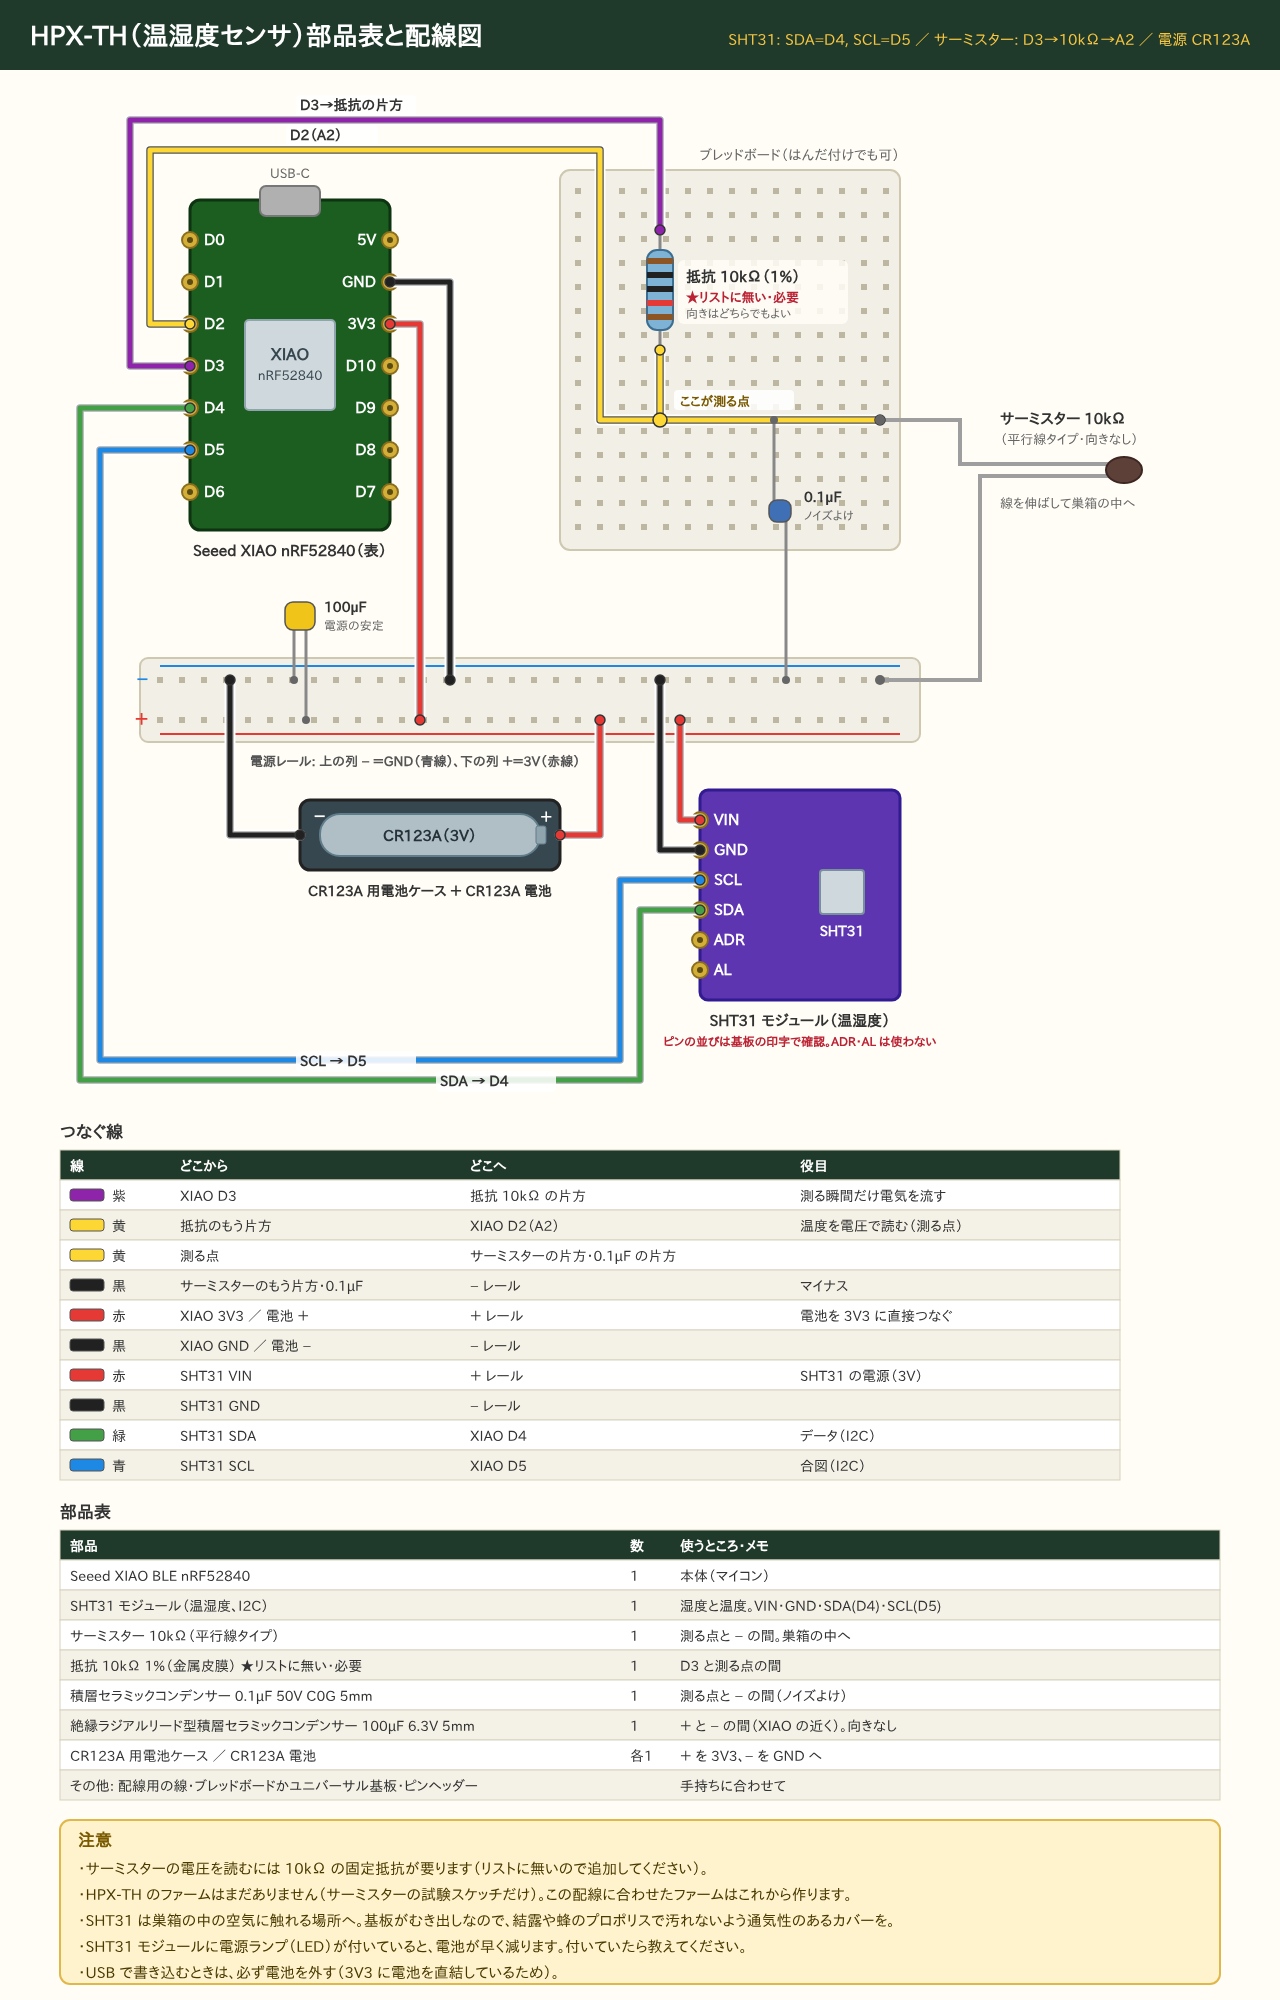
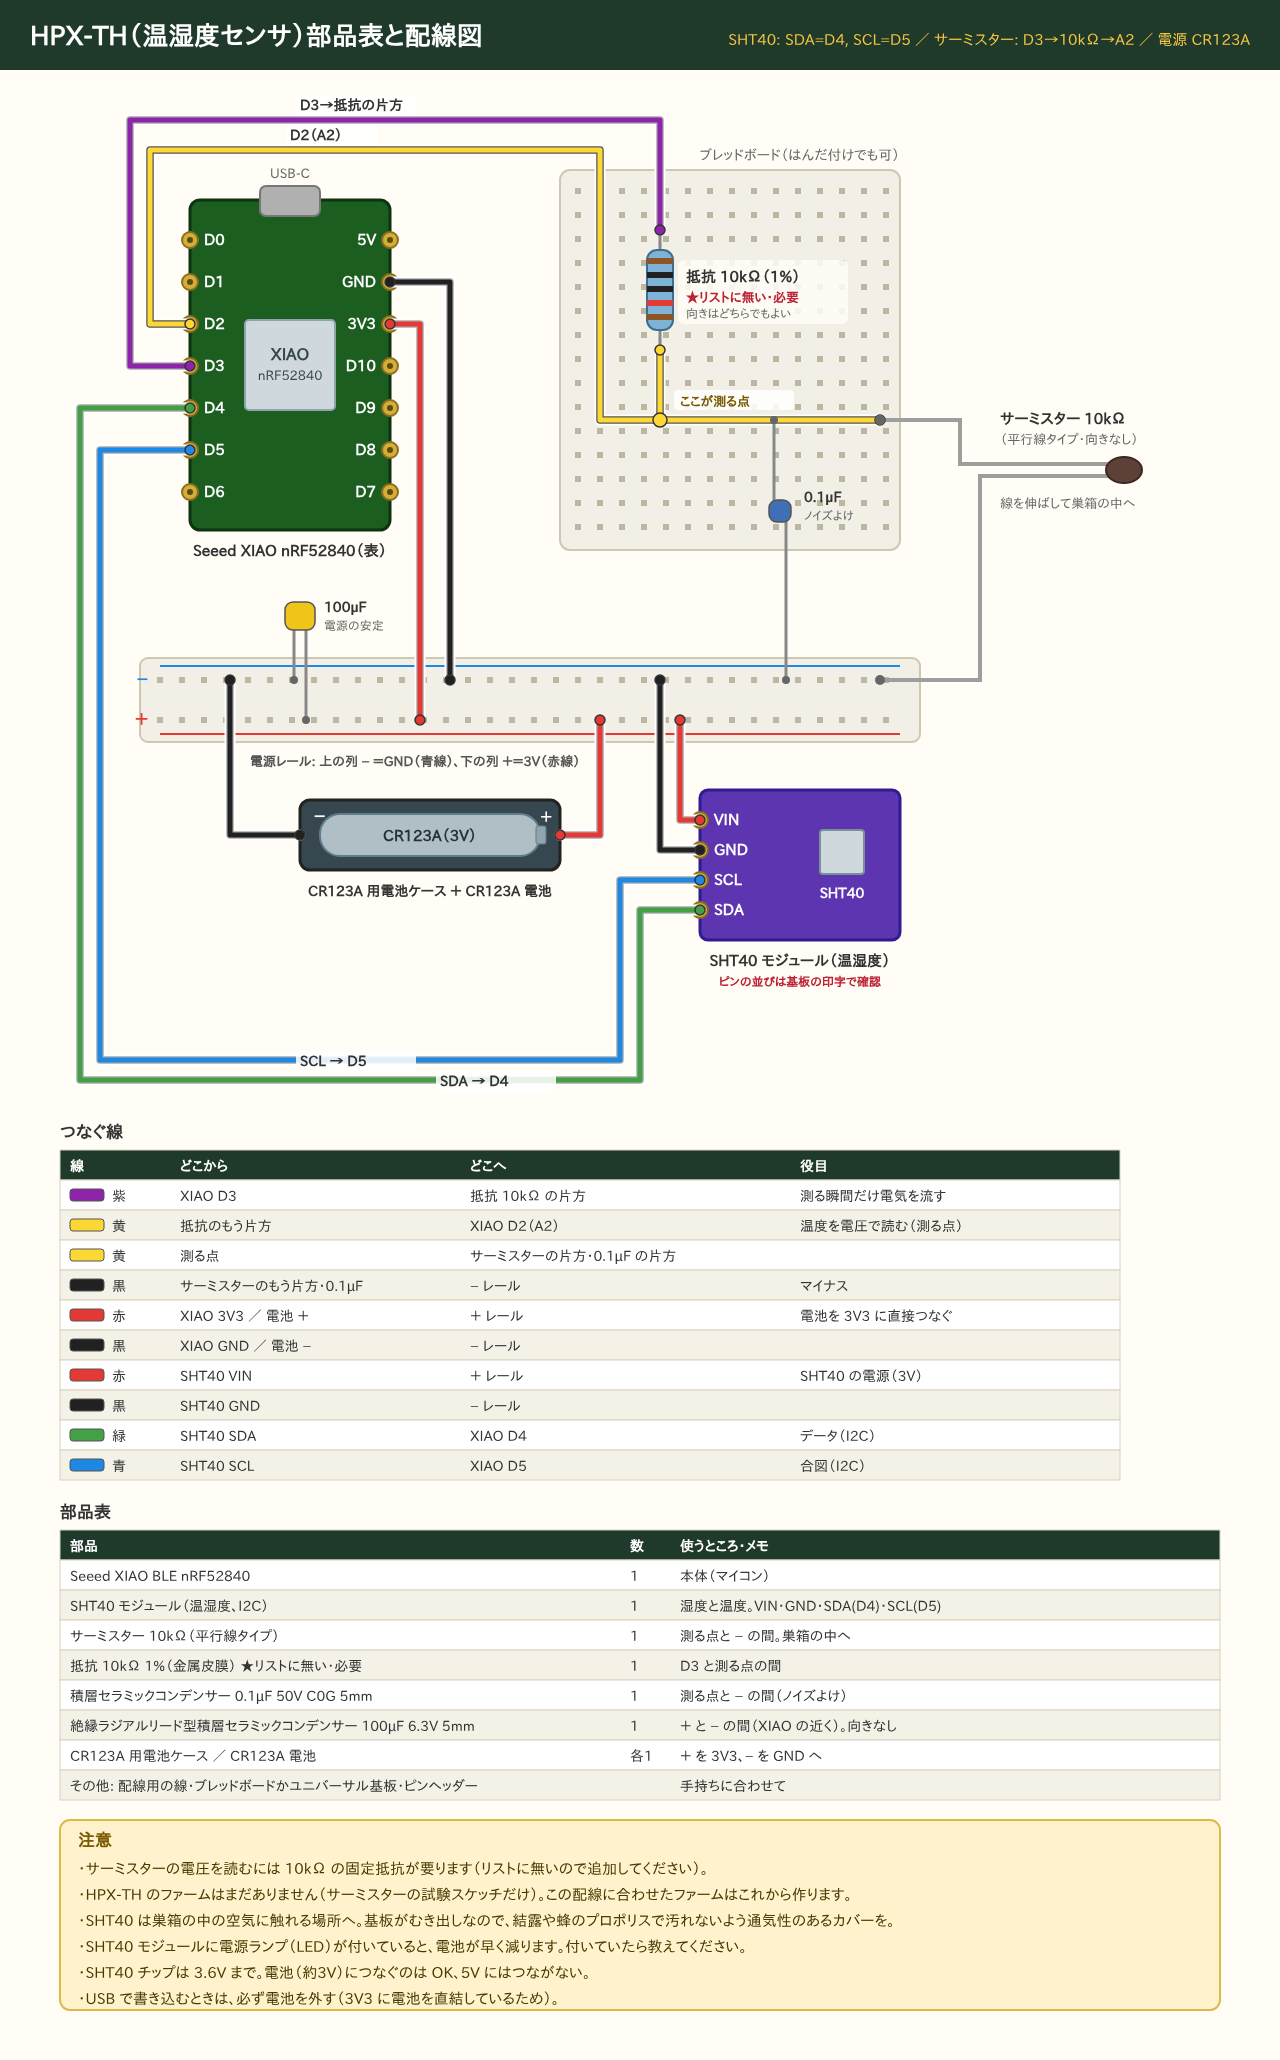
HPX-TH の温湿度センサを SHT40 に変更
Claude-Session: https://claude.ai/code/session_01LCC9B49tx6iTQWsNLLe4HY

diff --git a/hardware/wiring/gen_wiring.py b/hardware/wiring/gen_wiring.py
@@ -208,8 +208,8 @@ notes(s, 60, y + 20, [
 s.save("HPX-W_wiring.svg")
 
 # ------------------------------------------------------------------ HPX-TH
-s = S(1280, 2000)
-title(s, "HPX-TH（温湿度センサ）部品表と配線図", "SHT31: SDA=D4, SCL=D5 ／ サーミスター: D3→10kΩ→A2 ／ 電源 CR123A")
+s = S(1280, 2060)
+title(s, "HPX-TH（温湿度センサ）部品表と配線図", "SHT40: SDA=D4, SCL=D5 ／ サーミスター: D3→10kΩ→A2 ／ 電源 CR123A")
 p = xiao(s, 190, 200)
 bx, by = 560, 170
 s.rect(bx, by, 340, 380, "#f1efe6", "#cfc8b0", 10, 2)
@@ -252,16 +252,16 @@ cap(s, 300, 610, YM, YP, "100µF", "電源の安定", big=True, right=True)
 bp, bm = cr123a(s, 300, 800)
 s.wire([bm, (230, bm[1]), (230, YM)], "black")
 s.wire([bp, (600, bp[1]), (600, YP)], "red")
-# SHT31 モジュール (温湿度、I2C)。ピンは左側
+# SHT40 モジュール (温湿度、I2C)。ピンは左側
 mx, my = 700, 790
-s.rect(mx, my, 200, 210, "#5e35b1", "#311b92", 8, 3)
-s.rect(mx + 120, my + 80, 44, 44, "#cfd8dc", "#78909c", 3)
-s.text(mx + 142, my + 146, "SHT31", 14, "middle", "bold", "#fff")
+s.rect(mx, my, 200, 150, "#5e35b1", "#311b92", 8, 3)
+s.rect(mx + 120, my + 40, 44, 44, "#cfd8dc", "#78909c", 3)
+s.text(mx + 142, my + 108, "SHT40", 14, "middle", "bold", "#fff")
 m = {}
-for i, n in enumerate(["VIN", "GND", "SCL", "SDA", "ADR", "AL"]):
+for i, n in enumerate(["VIN", "GND", "SCL", "SDA"]):
     py = my + 30 + i * 30; s.pad(mx, py, n, "L"); m[n] = (mx, py)
-s.text(mx + 100, my + 236, "SHT31 モジュール（温湿度）", 15, "middle", "bold")
-s.text(mx + 100, my + 256, "ピンの並びは基板の印字で確認。ADR・AL は使わない", 12, "middle", fill="#b23", weight="bold")
+s.text(mx + 100, my + 176, "SHT40 モジュール（温湿度）", 15, "middle", "bold")
+s.text(mx + 100, my + 196, "ピンの並びは基板の印字で確認", 12, "middle", fill="#b23", weight="bold")
 s.wire([m["VIN"], (680, m["VIN"][1]), (680, YP)], "red")
 s.wire([m["GND"], (660, m["GND"][1]), (660, YM)], "black")
 s.wire([m["SCL"], (620, m["SCL"][1]), (620, 1060), (100, 1060), (100, p["D5"][1]), p["D5"]], "blue", "SCL → D5", (300, 1066))
@@ -274,15 +274,15 @@ y = table(s, 60, 1150, [
     ["black", "サーミスターのもう片方・0.1µF", "− レール", "マイナス"],
     ["red", "XIAO 3V3 ／ 電池 ＋", "＋ レール", "電池を 3V3 に直接つなぐ"],
     ["black", "XIAO GND ／ 電池 −", "− レール", ""],
-    ["red", "SHT31 VIN", "＋ レール", "SHT31 の電源（3V）"],
-    ["black", "SHT31 GND", "− レール", ""],
-    ["green", "SHT31 SDA", "XIAO D4", "データ（I2C）"],
-    ["blue", "SHT31 SCL", "XIAO D5", "合図（I2C）"],
+    ["red", "SHT40 VIN", "＋ レール", "SHT40 の電源（3V）"],
+    ["black", "SHT40 GND", "− レール", ""],
+    ["green", "SHT40 SDA", "XIAO D4", "データ（I2C）"],
+    ["blue", "SHT40 SCL", "XIAO D5", "合図（I2C）"],
 ], [110, 290, 330, 330], "つなぐ線")
 y = table(s, 60, y + 50, [
     ["部品", "数", "使うところ・メモ"],
     ["Seeed XIAO BLE nRF52840", "1", "本体（マイコン）"],
-    ["SHT31 モジュール（温湿度、I2C）", "1", "湿度と温度。VIN・GND・SDA(D4)・SCL(D5)"],
+    ["SHT40 モジュール（温湿度、I2C）", "1", "湿度と温度。VIN・GND・SDA(D4)・SCL(D5)"],
     ["サーミスター 10kΩ（平行線タイプ）", "1", "測る点と − の間。巣箱の中へ"],
     ["抵抗 10kΩ 1%（金属皮膜） ★リストに無い・必要", "1", "D3 と測る点の間"],
     ["積層セラミックコンデンサー 0.1µF 50V C0G 5mm", "1", "測る点と − の間（ノイズよけ）"],
@@ -293,8 +293,9 @@ y = table(s, 60, y + 50, [
 notes(s, 60, y + 20, [
     "・サーミスターの電圧を読むには 10kΩ の固定抵抗が要ります（リストに無いので追加してください）。",
     "・HPX-TH のファームはまだありません（サーミスターの試験スケッチだけ）。この配線に合わせたファームはこれから作ります。",
-    "・SHT31 は巣箱の中の空気に触れる場所へ。基板がむき出しなので、結露や蜂のプロポリスで汚れないよう通気性のあるカバーを。",
-    "・SHT31 モジュールに電源ランプ（LED）が付いていると、電池が早く減ります。付いていたら教えてください。",
+    "・SHT40 は巣箱の中の空気に触れる場所へ。基板がむき出しなので、結露や蜂のプロポリスで汚れないよう通気性のあるカバーを。",
+    "・SHT40 モジュールに電源ランプ（LED）が付いていると、電池が早く減ります。付いていたら教えてください。",
+    "・SHT40 チップは 3.6V まで。電池（約3V）につなぐのは OK、5V にはつながない。",
     "・USB で書き込むときは、必ず電池を外す（3V3 に電池を直結しているため）。",
 ])
 s.save("HPX-TH_wiring.svg")

diff --git a/hardware/wiring/部品表.md b/hardware/wiring/部品表.md
@@ -19,7 +19,7 @@
 | 部品 | 数 | 使うところ |
 |---|---|---|
 | Seeed XIAO BLE nRF52840 | 1 | 本体 |
-| SHT31 モジュール (温湿度、I2C) | 1 | VIN→3V3、GND→GND、SDA→D4、SCL→D5 (ADR・AL は使わない) |
+| SHT40 モジュール (温湿度、I2C) | 1 | VIN→3V3、GND→GND、SDA→D4、SCL→D5 |
 | サーミスター 10kΩ (平行線タイプ) | 1 | 測る点 (A2) と GND の間。巣箱の中へ |
 | ★ 抵抗 10kΩ 1% (金属皮膜) | 1 | D3 と測る点 (A2) の間 |
 | 積層セラミックコンデンサー 0.1µF 50V C0G 5mm | 1 | 測る点 (A2) と GND の間 (ノイズよけ) |
@@ -27,7 +27,7 @@
 | CR123A 用電池ケース | 1 | ＋→3V3、−→GND |
 | CR123A 電池 | 1 | |
 
-SHT31 で湿度と温度、サーミスターで温度を測る設計です (2026-10-30)。HPX-TH 用の無線で送るファームはまだありません。SHT31 モジュールに電源ランプ (LED) があると電池が早く減ります。
+SHT40 で湿度と温度、サーミスターで温度を測る設計です (2026-10-30)。SHT40 チップは 3.6V までなので 5V にはつながないでください。HPX-TH 用の無線で送るファームはまだありません。SHT40 モジュールに電源ランプ (LED) があると電池が早く減ります。
 
 ## HPX-A (電柵アラート)
 

diff --git a/hardware/wiring/README.md b/hardware/wiring/README.md
@@ -6,7 +6,7 @@
 | 機器 | 図 | ピン (ファーム) |
 |---|---|---|
 | HPX-W (重量) | [HPX-W_wiring.png](HPX-W_wiring.png) | HX711 DT=D0, SCK=D1 (HPX_WeightNode v1.01)。電源 CR123A |
-| HPX-TH (温湿度) | [HPX-TH_wiring.png](HPX-TH_wiring.png) | SHT31 (SDA=D4, SCL=D5) + サーミスター (D3 → 10kΩ → A2、A2–GND)。電源 CR123A |
+| HPX-TH (温湿度) | [HPX-TH_wiring.png](HPX-TH_wiring.png) | SHT40 (SDA=D4, SCL=D5) + サーミスター (D3 → 10kΩ → A2、A2–GND)。電源 CR123A |
 | HPX-A (電柵アラート) | [HPX-A_wiring.png](HPX-A_wiring.png) | D1 → 10kΩ → D0(A0)、CdS セル D0–GND (HPX_Alert v1.02)。電源 CR123A |
 | HPX-Core (親機) | [HPX-Core_wiring.png](HPX-Core_wiring.png) | 外付けの配線なし。USB 電源 (HPX_Core v1.15) |
 
@@ -18,4 +18,4 @@
 - ロードセル SC601 の線の色の割り当て (図は一般的な 赤=E+ 黒=E- 白=A- 緑=A+)
 - HPX-A の CdS セルで警報器の点滅を数えられるか (CdS は反応が遅め)
 - HPX-Core の図はボードのイメージで、ボタンの位置は実物と違うことがあります
-- SHT31 モジュールのピンの並び (基板の印字で確認)
+- SHT40 モジュールのピンの並び (基板の印字で確認)
